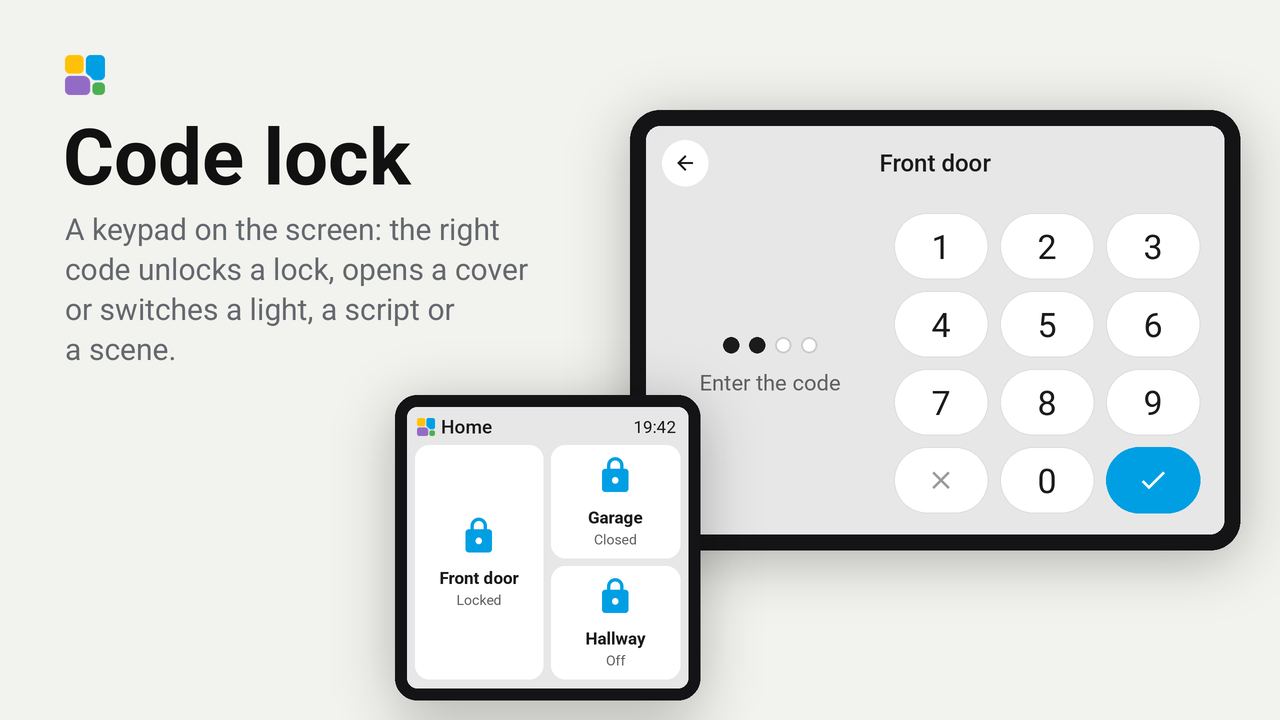
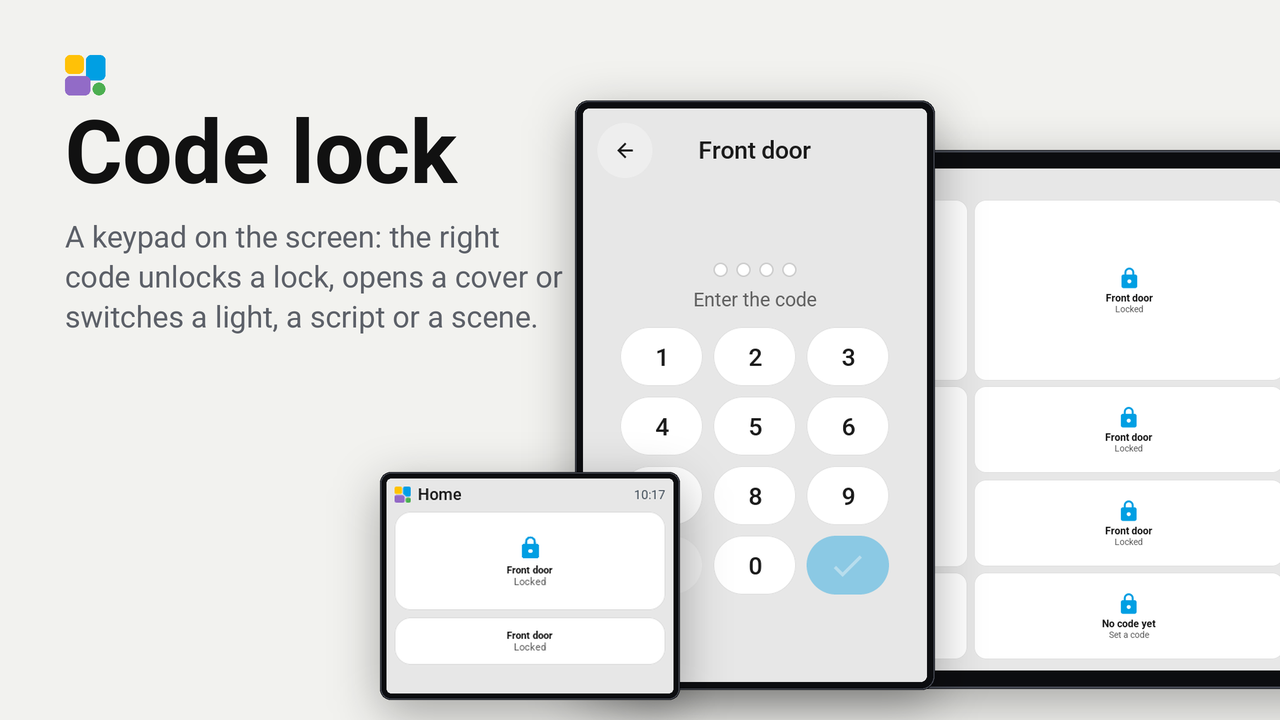
Keys fit the smallest screens; picture for the Plugins page from the bench
Claude-Session: https://claude.ai/code/session_01AhAGgwVmvEdLuwfY1PP2fS

diff --git a/components/code_lock/code_lock.cpp b/components/code_lock/code_lock.cpp
@@ -174,9 +174,11 @@ class KeysCard : public tessera::Card {
     // Short glass gives up the space between the keys before a key gets smaller than a finger.
     if (4 * least + 3 * g > keys_h) g = std::max(2, (keys_h - 4 * least) / 3);
     if (4 * kh + 3 * g > keys_h) kh = std::max(least, (keys_h - 3 * g) / 4);
+    // Glass too short even for a finger's keys (the CYD) gets smaller keys rather than keys off the glass.
+    kh = std::max(1, std::min(kh, (keys_h - 3 * g) / 4));
     int kw = kh * 3 / 2;
-    kw = std::min(kw, ((beside_ ? w * 64 / 100 : w) - 2 * g) / 3);
-    kw = std::max(kw, least);
+    const int third = ((beside_ ? w * 64 / 100 : w) - 2 * g) / 3;
+    kw = std::min(std::max(std::min(kw, third), least), third);
     const int pad_w = 3 * kw + 2 * g, pad_h = 4 * kh + 3 * g;
     const int info_w = beside_ ? std::min(w - pad_w - 2 * g, pad_w) : w;
     const int pair_x = beside_ ? x + (w - (info_w + 2 * g + pad_w)) / 2 : x;

diff --git a/CHANGELOG.md b/CHANGELOG.md
@@ -1,5 +1,8 @@
 # Changelog
 
+## 0.3.1
+- On the smallest screens (the 2.8-inch CYD) the keypad's keys fit the glass: before, the lowest row was cut off.
+
 ## 0.3.0
 - The right code switches a light, a switch or an input boolean over, whatever it is now. Before, it only turned them
   on, so a light that was already on did nothing.
